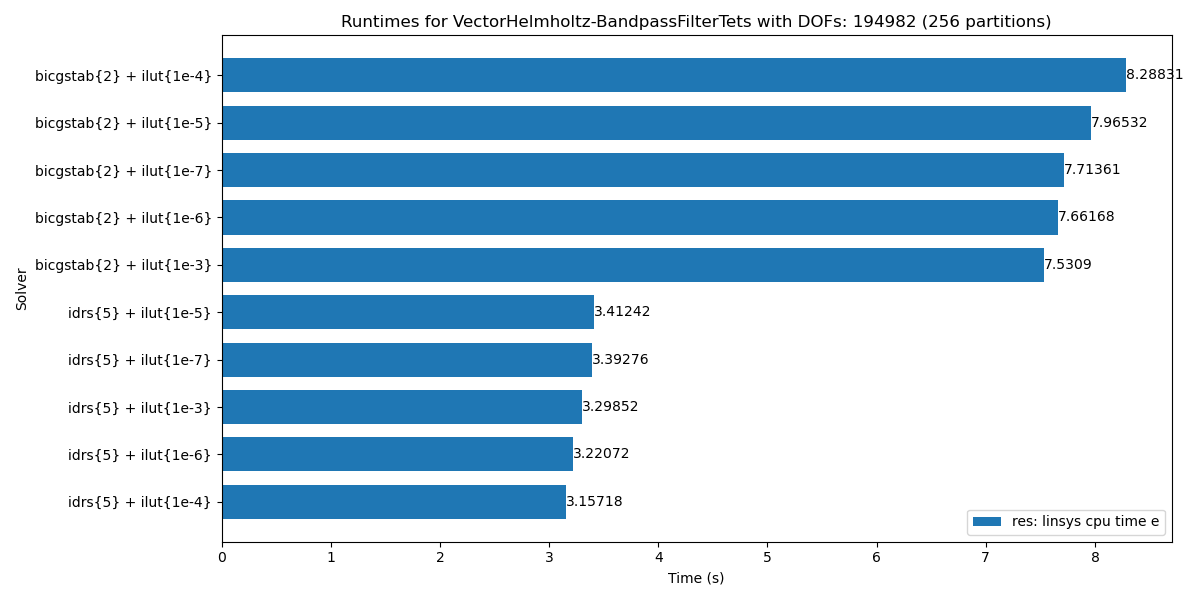
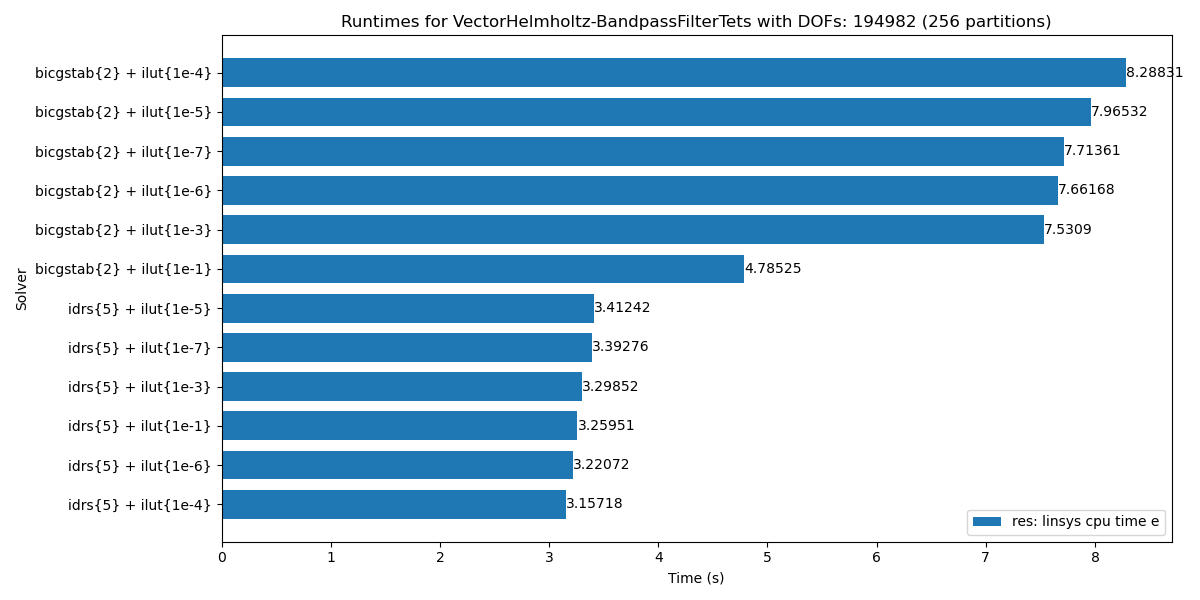
Additional ILUT benchmarks

diff --git a/results/VectorHelmholtz-BandpassFilterTets/README.md b/results/VectorHelmholtz-BandpassFilterTets/README.md
@@ -16,7 +16,7 @@ With wave equations the tolerance based incomplete LU factorization (ILUT) can p
 ![Runtimes ML2](https://github.com/ElmerCSC/elmer-linsys/blob/main/results/VectorHelmholtz-BandpassFilterTets/runtimes_ILUT_ML2.png?raw=true)
 ![Runtimes ML3](https://github.com/ElmerCSC/elmer-linsys/blob/main/results/VectorHelmholtz-BandpassFilterTets/runtimes_ILUT_ML3.png?raw=true)
 
-From the results we see that the differences in runtimes that the changes in tolerances cause is quite small. Interestingly, across multiple solvers the different tolerances can have quite a different effect even though the underlying coefficient matrix is the same. This means that the increase (or decrease) in tolerance doens't have a systematic impact on the runtimes as one might assume.
+From the results we see that the differences in runtimes that the changes in tolerances cause are quite small. Interestingly, across multiple solvers the different tolerances can have quite a different effect even though the underlying coefficient matrix is the same. With BiCGStab(l) it seems that performance is consistently improved by having a very big tolerance (1e-1 or 1e-2), while similar effect is not visible with Idr(s). This means that the increase (or decrease) in tolerance doens't really have a systematic impact on the runtimes as one might assume.
 
 It is also good to note that the ILUT preconditioner doens't seem to make the solvers any more stable as with the finest mesh all Idr(s) and some BiCGStab(l) solvers fail to converge. This is an effect that was seen in the main benchmarks as well (see runtimes_ML3.png for example).
 
